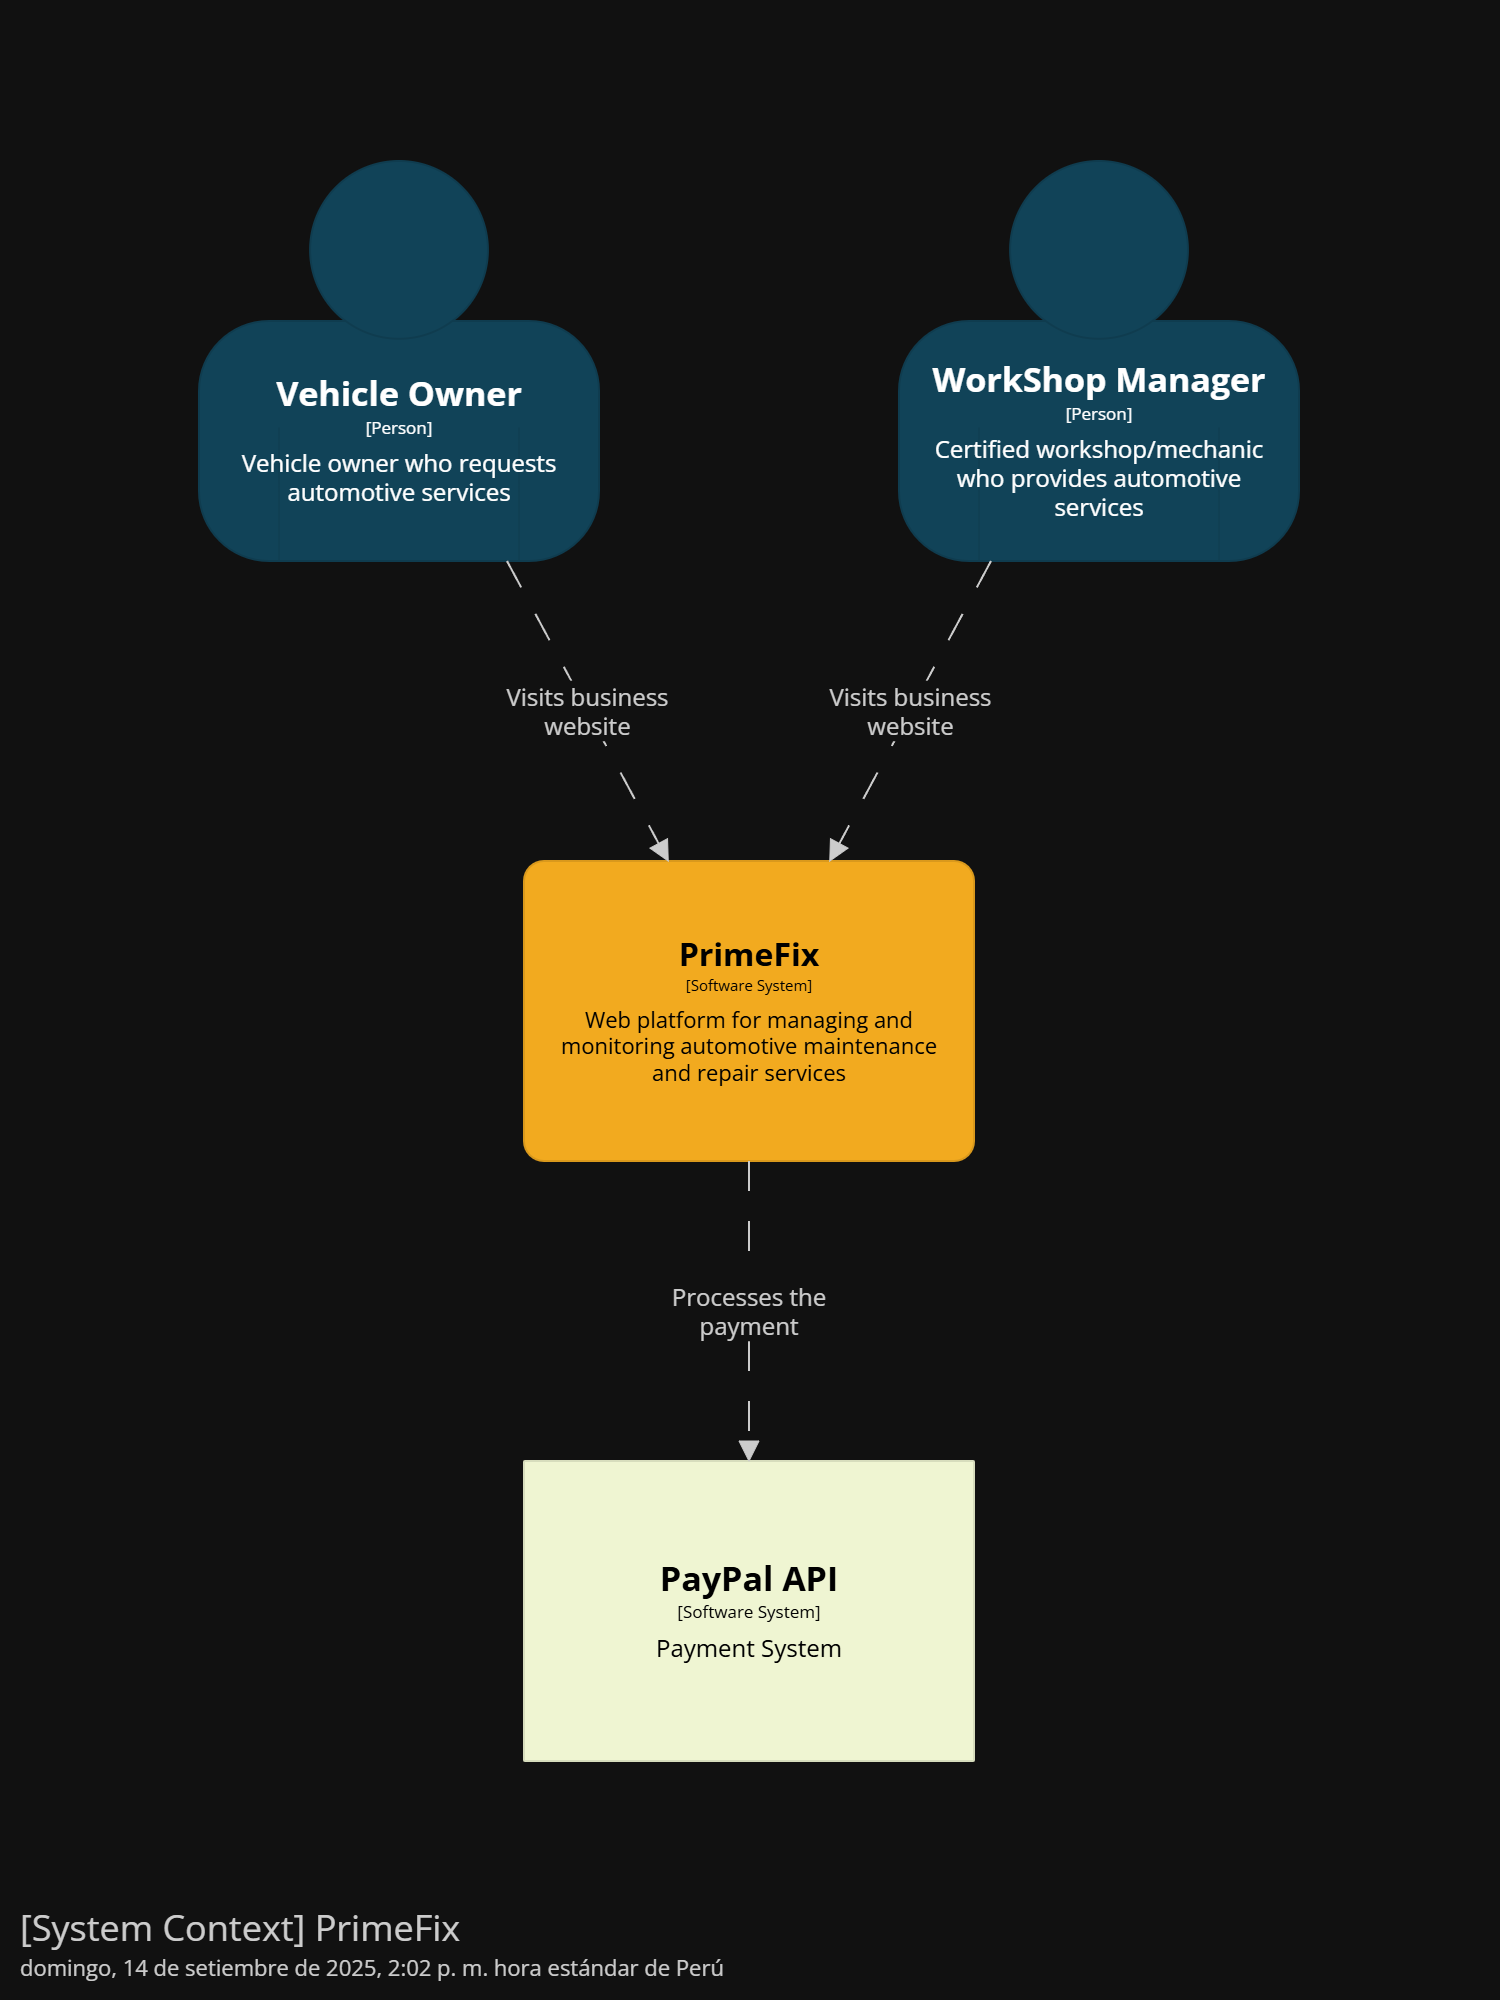
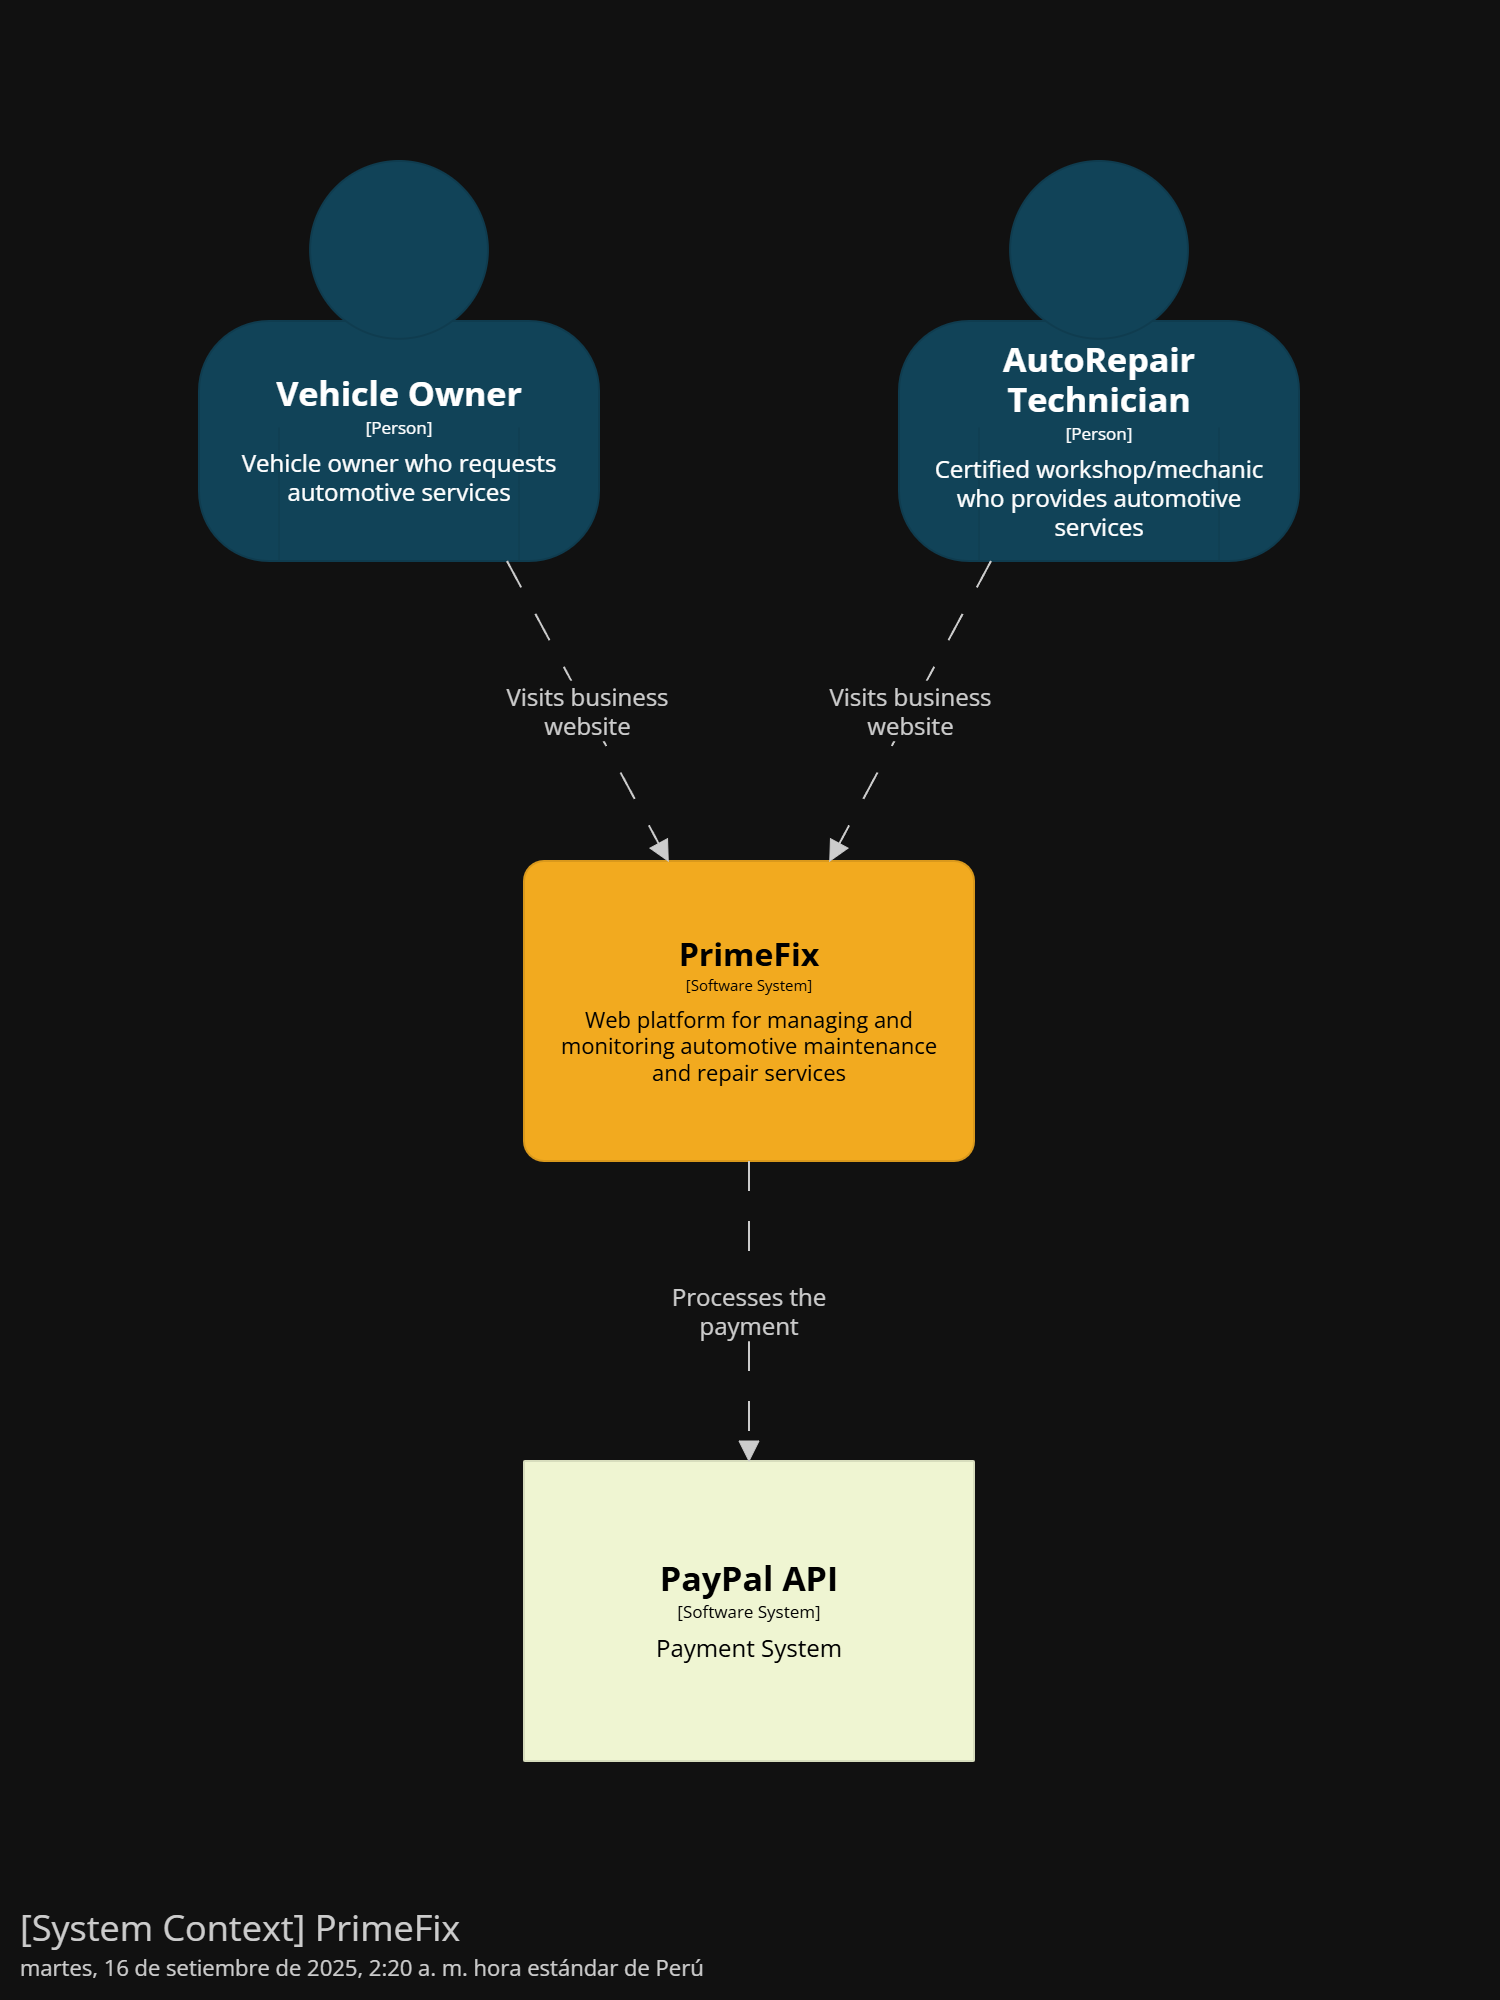
Edit and Add information

Changed region(s): [[0.6133, 0.155, 0.8587, 0.279], [0.0307, 0.961, 0.46, 0.992]]

diff --git a/README.md b/README.md
@@ -153,8 +153,8 @@
 # Student Outcome  
 | Criterio específico                                                   | Acciones realizadas                                                                                     | Conclusiones |
 | --------------------------------------------------------------------- | ------------------------------------------------------------------------------------------------------- | ------------ |
-| Comunica oralmente con efectividad a diferentes rangos de audiencia   | Jiménez Guerra, Gianmarco Fabian<br>TB1<br>Texto<br><br>Aróstegui Alzamora, Cesar Augusto<br>TB1<br>Texto<br><br>Tenorio Medina, Piero Francesco<br>TB1<br>Texto<br><br>Montoya Torres, Alexander Gabriel<br>TB1<br>Texto<br><br>Navarro Chang, Alicia Avril<br>TB1<br>Texto| TB1: Texto   |
-| Comunica por escrito con efectividad a diferentes rangos de audiencia | Jiménez Guerra, Gianmarco Fabian<br>TB1<br>Texto<br><br>Aróstegui Alzamora, Cesar Augusto<br>TB1<br>Texto<br><br>Tenorio Medina, Piero Francesco<br>TB1<br>Texto<br><br>Montoya Torres, Alexander Gabriel<br>TB1<br>Texto<br><br>Navarro Chang, Alicia Avril<br>TB1<br>Texto| TB1: Texto   |
+| Comunica oralmente con efectividad a diferentes rangos de audiencia   | Jiménez Guerra, Gianmarco Fabian<br>TB1<br>Texto<br><br>Aróstegui Alzamora, Cesar Augusto<br>TB1<br>Texto<br><br>Tenorio Medina, Piero Francesco<br>TB1<br> <br>Dentro de esta parte del trabajo, he planteado distintas ideas de como se podria desarrollar el trabajo con los demás integrantes de mi equipo.Estas ideas considerando las dimensiones y el alcnace del trabajo. Se ha desarrollado secciones como Entrevistas a Uusarios, donde sse ha llegado a plasmar de manera correcta la idea de nuestro proyecto.<br>Montoya Torres, Alexander Gabriel<br>TB1<br>Texto<br><br>Navarro Chang, Alicia Avril<br>TB1<br>Texto| TB1: Texto   |
+| Comunica por escrito con efectividad a diferentes rangos de audiencia | Jiménez Guerra, Gianmarco Fabian<br>TB1<br>Texto<br><br>Aróstegui Alzamora, Cesar Augusto<br>TB1<br>Texto<br><br>Tenorio Medina, Piero Francesco<br>TB1<br>Dentro de esta parte del trabajo, he desarrollado y planteado ideas que sean de acordes a los distintos segmentos objetivos. Estas ideas se basan en la experiencia y el malestar de cada uno de los usuarios, como por ejemplo: el planteamiento de facilidades al usuario a la hora de utilizar la plataforma, brindandole distintas herramientas que mejoren su experiencia a la hora de utilizar nuestro Servicio. <br><br>Montoya Torres, Alexander Gabriel<br>TB1<br>Texto<br><br>Navarro Chang, Alicia Avril<br>TB1<br>Texto| TB1: Texto   |
 
 ---
 
@@ -429,7 +429,7 @@ En esta sección, el equipo hace entrevistas a personas pertenecientes a los seg
 
 - Sexo: Masculino
 - Edad: 24
-- Link: [Enlace](https://youtu.be/jxewDa98VMM?si=WdTFbF1Z-Kl3YQhH)
+- Link: [Enlace](https://upcedupe-my.sharepoint.com/:v:/g/personal/u202318731_upc_edu_pe/EU-OfAcUkxlLsrpkalhCNRQBkang9sWzDtFzbJ4EEzaXvQ?e=Rq6OAR&nav=eyJyZWZlcnJhbEluZm8iOnsicmVmZXJyYWxBcHAiOiJTdHJlYW1XZWJBcHAiLCJyZWZlcnJhbFZpZXciOiJTaGFyZURpYWxvZy1MaW5rIiwicmVmZXJyYWxBcHBQbGF0Zm9ybSI6IldlYiIsInJlZmVycmFsTW9kZSI6InZpZXcifX0%3D)
 - Inicia en: 0:01
 - Duración: 5:40
 
@@ -437,12 +437,13 @@ En esta sección, el equipo hace entrevistas a personas pertenecientes a los seg
 
 **Resumen de la entrevista**
 
+Marcos Contreras es un joven qde 24 años quien trabaja y estudia de manera paralela. Marcos nos cuenta que el tiene un vehiculo por la cual facilita movilizarse dentro de la ciudad. Marcos nos comenta que a la hora de encontrar un buen servicio que pueda atender a su vehículo, más que nada resalta que no llega a encontrar un lugar accesible. Marcos tambien nos cuenta que utiliza Google Maps,WhastApp e incluso Fcaebook para poder encontrar un taller que sea recomendado. Nos dice que valora la confianza y la calidad sobre el precio dentro de un servicio. Dentro de las experiencia negativas nos cuenta que si llego a presentar alguna, en la entrega de su vehículo. Finalmente, Marcos resalta que una aplicación que le ayude a gestionar los talleres a los que va, le puede hacer de mucha utilidad en su día a día. Que implemente funcionalidades que sean pertinentes para él como las agendas y las ubicaciones en mapas.
 
 **Entrevista N°2: Anyelo Alejos**
 
 - Sexo: Masculino
 - Edad: 23
-- Link: [Enlace](https://youtu.be/-Es-ANQGVr0?si=JypulX8ivOkZupZd)
+- Link: [Enlace](https://upcedupe-my.sharepoint.com/:v:/g/personal/u202318731_upc_edu_pe/EbUouuLCEqlGvWQEGCCiPf4B8TQJNZIvqrxVh6ufl-rZQQ?e=zp4nf9&nav=eyJyZWZlcnJhbEluZm8iOnsicmVmZXJyYWxBcHAiOiJTdHJlYW1XZWJBcHAiLCJyZWZlcnJhbFZpZXciOiJTaGFyZURpYWxvZy1MaW5rIiwicmVmZXJyYWxBcHBQbGF0Zm9ybSI6IldlYiIsInJlZmVycmFsTW9kZSI6InZpZXcifX0%3D)
 - Inicia en: 0:01
 - Duración: 6:45
 
@@ -450,6 +451,7 @@ En esta sección, el equipo hace entrevistas a personas pertenecientes a los seg
 
 **Resumen de la entrevista**
 
+Anyelo Alejos es un chico de 23 años de edad, el solo estudia pero cuenta con un Vehiculo para movilizarse a su centro de estudios. El comenta que utiliza apliaciones como Google Maps para poder encontrar un taller que le sea pertinente, pero tambien lo busca de manera manual. Él valora aspectos como la confiabilidad dentro de un taller. Además, cuenta que no tuvo problemas con los talleres. El suele solicitar servicios por un móvil y raras veces de manera manual. Anyelo comenta que le gustaría tener una aplicación que le ayude a a gendar citas en talleres para su vehículo, teniendo funcionalidades como reseña, precios y calificaciones de talleres.
 
 **Entrevista N°3:**
 
@@ -1184,11 +1186,11 @@ Link del prototipo: [Prototype](https://www.figma.com/proto/wf74HMrT48NvWY5Bq8Mg
 ## 4.6. Domain-Driven Software Architecture
 ### 4.6.1. Design-Level Event Storming
 ### 4.6.2. Software Architecture Context Diagram
-
+Diagrama de Conexto de PrimeFix
 <img src="Assets/diagrams/Context_Diagram.png">
 
 ### 4.6.3. Software Architecture Container Diagrams
-
+Diagrama de Contenedores de PrimeFix
 <img src="Assets/diagrams/Container_Diagram.png">
 
 ### 4.6.4. Software Architecture Components Diagrams
